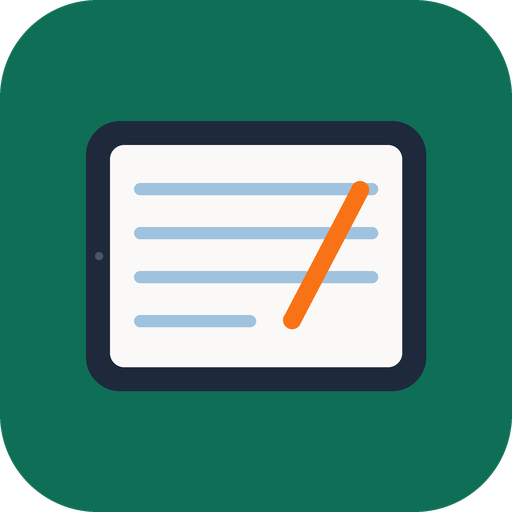
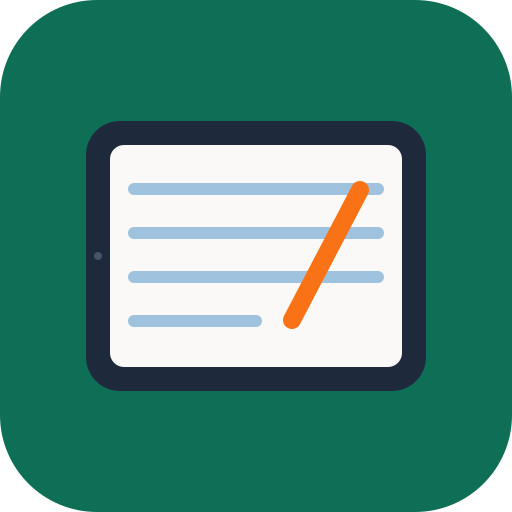
Replier la fenêtre d'options, lissage du trait, barre P1-P2 lisible, script d'icônes à jour
- fenêtre d'options repliable (rouverte au changement d'outil)
- lissage du trait à main levée : aucun / léger / fort, réglable (défaut aucun)
- P1-P2 : outil actif plein bleu avec pictogramme, autres gris
- scripts/icones.mjs produit l'icône tablette (npm run icones n'écrase plus l'ancienne)

diff --git a/src/ui/BarreOutils.tsx b/src/ui/BarreOutils.tsx
@@ -5,6 +5,8 @@ import { FORMES } from '../model/formes';
 import { TAILLES_TEXTE_PT } from '../model/texte';
 import { PaletteCouleurs } from './PaletteCouleurs';
 import { outilsPour, type OutilId } from '../model/outils';
+import { OUTIL_ACTIF, OUTIL_GRIS } from './ColonneOutils';
+import { IconeOutil, IconeUi } from './iconesOutils';
 
 export const COULEURS = [
   { hex: '#1a1814', nom: 'Noir' },
@@ -69,13 +71,16 @@ export type PropsOutils = {
 
 export function BarreOutils(p: PropsOutils) {
   const grand = p.niveau === 'p1p2';
+  // Même langage que la colonne d'outils : l'outil ou le choix actif est plein bleu, tous les autres sont gris.
+  // (Avant : tous verts, l'actif seulement cerclé de vert, donc presque invisible.)
   const bouton = (actif: boolean) =>
-    `plai-btn ${grand ? 'min-h-[64px] min-w-[64px] text-lg' : 'min-h-[44px] min-w-[44px]'} ${actif ? 'ring-4 ring-[#0f6e56]' : ''}`;
+    `${actif ? OUTIL_ACTIF : OUTIL_GRIS} justify-center ${grand ? '!min-h-[64px] !min-w-[64px]' : '!min-h-[44px] !min-w-[44px]'}`;
 
   return (
     <div className="carte-flottante sticky top-[64px] z-50 mx-3 mt-3 flex flex-wrap items-center gap-2 p-2" role="toolbar" aria-label="Outils">
       {outilsPour(p.niveau).map(o => (
-        <button key={o.id} type="button" className={bouton(p.outil === o.id)} title={o.aide} aria-pressed={p.outil === o.id} onClick={() => p.setOutil(o.id)}>
+        <button key={o.id} type="button" className={`${bouton(p.outil === o.id)} ${grand ? 'flex-col gap-1 !py-2' : 'gap-2'}`} title={o.aide} aria-pressed={p.outil === o.id} onClick={() => p.setOutil(o.id)}>
+          <IconeOutil id={o.id} taille={grand ? 30 : 22} />
           {o.libelle}
         </button>
       ))}
@@ -131,8 +136,8 @@ export function BarreOutils(p: PropsOutils) {
         </>
       )}
       <span className="mx-2 h-8 w-px bg-[var(--border)]" aria-hidden />
-      <button type="button" className={bouton(false)} disabled={!p.peutAnnuler} onClick={p.onAnnuler}>Annuler</button>
-      <button type="button" className={bouton(false)} disabled={!p.peutRetablir} onClick={p.onRetablir}>Rétablir</button>
+      <button type="button" className={`${bouton(false)} gap-2`} disabled={!p.peutAnnuler} onClick={p.onAnnuler}><IconeUi nom="annuler" taille={22} />Annuler</button>
+      <button type="button" className={`${bouton(false)} gap-2`} disabled={!p.peutRetablir} onClick={p.onRetablir}><IconeUi nom="retablir" taille={22} />Rétablir</button>
       <span className="mx-2 h-8 w-px bg-[var(--border)]" aria-hidden />
       <button type="button" className={bouton(false)} aria-label="Dézoomer" onClick={() => p.setZoom(Math.max(0.5, +(p.zoom - 0.25).toFixed(2)))}>−</button>
       <span className="min-w-[3.5rem] text-center" aria-live="polite">{Math.round(p.zoom * 100)} %</span>

diff --git a/src/ui/Reglages.tsx b/src/ui/Reglages.tsx
@@ -1,5 +1,6 @@
 import { useState } from 'react';
 import type { PositionColonne, Reglages as R } from '../lib/reglages';
+import { LISSAGES, type Lissage } from '../model/lissage';
 import type { ModeEntree, Niveau } from '../model/types';
 
 const NIVEAUX: { id: Niveau; libelle: string; aide: string }[] = [
@@ -18,12 +19,19 @@ const COLONNES: { id: PositionColonne; libelle: string; aide: string }[] = [
   { id: 'droite', libelle: 'À droite', aide: 'Pour écrire de la main gauche : la main qui écrit ne cache pas les outils.' },
 ];
 
+const LISSAGES_TEXTES: Record<Lissage, { libelle: string; aide: string }> = {
+  aucun: { libelle: 'Aucun', aide: 'Le trait suit exactement la main, tremblements compris.' },
+  leger: { libelle: 'Léger', aide: 'Adoucit les petits tremblements. Les lettres gardent leur forme.' },
+  fort: { libelle: 'Fort', aide: 'Adoucit beaucoup : les traits deviennent plus réguliers, mais les petits détails des lettres s’arrondissent.' },
+};
+
 type Props = { initial: R | null; onValider: (r: R) => void };
 
 export function Reglages({ initial, onValider }: Props) {
   const [niveau, setNiveau] = useState<Niveau>(initial?.niveau ?? 'p3p6');
   const [mode, setMode] = useState<ModeEntree>(initial?.modeEntree ?? 'stylet');
   const [colonne, setColonne] = useState<PositionColonne>(initial?.colonne ?? 'gauche');
+  const [lissage, setLissage] = useState<Lissage>(initial?.lissage ?? 'aucun');
 
   return (
     <section className="plai-section mx-auto max-w-2xl p-4">
@@ -60,7 +68,17 @@ export function Reglages({ initial, onValider }: Props) {
           ))}
         </fieldset>
       )}
-      <button type="button" className="plai-btn min-h-[44px]" onClick={() => onValider({ niveau, modeEntree: mode, colonne })}>Valider</button>
+      <fieldset className="plai-card mb-4 p-4">
+        <legend className="font-semibold">Lissage du trait à main levée</legend>
+        <p className="mb-2 text-[var(--text2)]">Adoucit les tremblements du stylo et du surligneur libre. Le début et la fin du trait restent là où ils ont été posés. Les formes, les droites et les opérations ne sont pas concernées.</p>
+        {LISSAGES.map(l => (
+          <label key={l} className="mb-2 flex items-start gap-3">
+            <input type="radio" name="lissage" className="mt-2 h-5 w-5" checked={lissage === l} onChange={() => setLissage(l)} />
+            <span><strong>{LISSAGES_TEXTES[l].libelle}</strong><span className="block text-[var(--text2)]">{LISSAGES_TEXTES[l].aide}</span></span>
+          </label>
+        ))}
+      </fieldset>
+      <button type="button" className="plai-btn min-h-[44px]" onClick={() => onValider({ niveau, modeEntree: mode, colonne, lissage })}>Valider</button>
     </section>
   );
 }

diff --git a/src/ui/PageVue.tsx b/src/ui/PageVue.tsx
@@ -7,6 +7,7 @@ import { ptVersMm, ratioPixelsMax } from '../lib/units';
 import { motifFond, type Motif } from '../model/fonds';
 import { creerDroite } from '../model/droites';
 import { formeContient, formeDepuisGlisse } from '../model/formes';
+import { lisserTrait } from '../model/lissage';
 import { effacerPartiel, objetTouche } from '../model/gomme';
 import { ajouterObjet, deplacerObjets, membresDuGroupe, modifierObjet, remplacerObjet, supprimerObjet } from '../model/ops';
 import { boiteDe, objetSous } from '../model/selection';
@@ -45,6 +46,8 @@ type Props = {
   photoUrl?: string;
   /** Surligneur : « libre » suit le doigt, « lineaire » trace une droite du début à la fin du glissé. */
   modeSurligneur: 'libre' | 'lineaire';
+  /** Rayon du lissage du trait à main levée (0 = aucun), voir model/lissage.ts. */
+  lissage: number;
   /** Taille (points) des nouveaux textes. */
   taillePtTexte: number;
   /** Objet sélectionné sur cette page (outils Sélectionner et Formes) : cadre, ou poignées pour une forme. */
@@ -380,7 +383,7 @@ export function PageVue(p: Props) {
     setBrouillon(null);
     if (trait && trait.length > 0) {
       p.onCommit(ajouterObjet(p.doc, p.pageIndex, {
-        id: nouvelId(), type: 'trait', points: trait, couleur: p.couleur, epaisseur: p.epaisseur,
+        id: nouvelId(), type: 'trait', points: lisserTrait(trait, p.lissage), couleur: p.couleur, epaisseur: p.epaisseur,
         ...(p.outil === 'surligneur' ? { surligneur: true } : {}),
       }));
     } else if (gomme && gomme !== p.doc) {
@@ -617,7 +620,7 @@ export function PageVue(p: Props) {
             idEdition={maths?.objet.id ?? null} formesEditables={surFormes} largeurPage={page.largeurMm} hauteurPage={page.hauteurMm} onDeplace={finDeplacement} onTransforme={finTransformation} />
           <Layer listening={false}>
             {enCours && (
-              <Line points={enCours.flatMap(q => [q.x, q.y])} stroke={p.couleur} strokeWidth={p.epaisseur}
+              <Line points={lisserTrait(enCours, p.lissage).flatMap(q => [q.x, q.y])} stroke={p.couleur} strokeWidth={p.epaisseur}
                 lineCap={p.outil === 'surligneur' ? 'butt' : 'round'} lineJoin="round" opacity={p.outil === 'surligneur' ? SURLIGNEUR_OPACITE : 1} />
             )}
             {apercuForme && <FormeVue o={apercuForme} draggable={false} listening={false} />}

diff --git a/src/ui/BandeauReglages.tsx b/src/ui/BandeauReglages.tsx
@@ -1,3 +1,4 @@
+import { useEffect, useState } from 'react';
 import { COULEURS_SURLIGNEUR, SURLIGNEUR_EPAISSEUR_MAX_MM, SURLIGNEUR_EPAISSEUR_MIN_MM, SURLIGNEUR_EPAISSEUR_PAS_MM, SURLIGNEUR_OPACITE } from '../lib/couleurs';
 import { FORMES } from '../model/formes';
 import { OUTILS } from '../model/outils';
@@ -60,9 +61,20 @@ export function aOptions(p: PropsOutils): boolean {
  * Elle flotte au-dessus de la page sans rien déplacer. Ne pas la mettre dans le bandeau : ce serait de la hauteur réservée en plus.
  */
 export function BarreBas(p: PropsOutils) {
+  // Repliée à la main pour dégager la page ; rouverte d'office quand on change d'outil (ses options sont alors nouvelles).
+  const [repliee, setRepliee] = useState(false);
+  useEffect(() => setRepliee(false), [p.outil]);
   return (
     <div className="pointer-events-none sticky bottom-3 z-40 mx-3 mb-3 flex items-end justify-between gap-3">
-      <div className="min-w-0 flex-1">{aOptions(p) && <FenetreOptions {...p} />}</div>
+      <div className="min-w-0 flex-1">
+        {aOptions(p) && (repliee
+          ? (
+            <button type="button" className={`${OUTIL_GRIS} pointer-events-auto gap-2 shadow-lg`} aria-expanded={false} onClick={() => setRepliee(false)}>
+              <IconeUi nom="haut" />Options de l’outil
+            </button>
+          )
+          : <FenetreOptions {...p} onReplier={() => setRepliee(true)} />)}
+      </div>
       <Zoom zoom={p.zoom} setZoom={p.setZoom} />
     </div>
   );
@@ -80,7 +92,7 @@ function Zoom({ zoom, setZoom }: { zoom: number; setZoom: (z: number) => void })
   );
 }
 
-function FenetreOptions(p: PropsOutils) {
+function FenetreOptions(p: PropsOutils & { onReplier: () => void }) {
   return (
     <div className="carte-flottante pointer-events-auto flex flex-wrap items-center gap-x-6 gap-y-2 p-3 shadow-2xl ring-1 ring-[var(--border2)]" role="group" aria-label="Options de l’outil">
       {p.outil === 'droite' && (
@@ -153,6 +165,9 @@ function FenetreOptions(p: PropsOutils) {
           </div>
         </div>
       )}
+      <button type="button" className={`${OUTIL_GRIS} ml-auto gap-2 ${PUCE}`} aria-expanded onClick={p.onReplier} title="Replier cette fenêtre pour voir toute la page">
+        <IconeUi nom="bas" />Replier
+      </button>
     </div>
   );
 }

diff --git a/src/model/lissage.test.ts b/src/model/lissage.test.ts
@@ -1,0 +1,40 @@
+import { describe, expect, it } from 'vitest';
+import { lisserTrait, RAYON_LISSAGE } from './lissage';
+
+// Ligne droite (y = 0) avec un bruit déterministe, comme une main qui tremble.
+const ligneTremblee = Array.from({ length: 41 }, (_, i) => ({ x: i, y: (((i * 37) % 11) - 5) / 5 }));
+
+describe('lisserTrait', () => {
+  it('ne change rien sans lissage ni pour 2 points ou moins', () => {
+    expect(lisserTrait(ligneTremblee, 0)).toBe(ligneTremblee);
+    const deux = [{ x: 0, y: 0 }, { x: 5, y: 5 }];
+    expect(lisserTrait(deux, 8)).toBe(deux);
+  });
+  it('garde exactement le premier et le dernier point', () => {
+    const r = lisserTrait(ligneTremblee, RAYON_LISSAGE.fort);
+    expect(r[0]).toEqual(ligneTremblee[0]);
+    expect(r[40]).toEqual(ligneTremblee[40]);
+    expect(r).toHaveLength(41);
+  });
+  it('réduit le tremblement', () => {
+    // Écart quadratique à la droite idéale, sur le milieu du trait (loin des bouts fixes).
+    const ecart = (pts: { y: number }[]) => Math.sqrt(pts.slice(10, 30).reduce((a, q) => a + q.y * q.y, 0) / 20);
+    const leger = lisserTrait(ligneTremblee, RAYON_LISSAGE.leger);
+    const fort = lisserTrait(ligneTremblee, RAYON_LISSAGE.fort);
+    expect(ecart(leger)).toBeLessThan(ecart(ligneTremblee));
+    expect(ecart(fort)).toBeLessThan(ecart(leger));
+  });
+  it('laisse une droite parfaite inchangée', () => {
+    const droite = Array.from({ length: 20 }, (_, i) => ({ x: i, y: 2 * i }));
+    for (const q of lisserTrait(droite, 5).map((q, i) => [q, droite[i]] as const)) {
+      expect(q[0].x).toBeCloseTo(q[1].x, 9);
+      expect(q[0].y).toBeCloseTo(q[1].y, 9);
+    }
+  });
+  it('moyenne la pression seulement si tous les points en ont une', () => {
+    const avec = Array.from({ length: 9 }, (_, i) => ({ x: i, y: 0, p: i / 8 }));
+    expect(lisserTrait(avec, 2)[4].p).toBeCloseTo(0.5, 9);
+    const sans = avec.map((q, i) => (i === 4 ? { x: q.x, y: q.y } : q));
+    expect(lisserTrait(sans, 2)[3].p).toBeUndefined();
+  });
+});

diff --git a/src/lib/reglages.test.ts b/src/lib/reglages.test.ts
@@ -19,8 +19,8 @@ describe('reglages', () => {
   });
   it('aller-retour', () => {
     const s = memoire();
-    ecrireReglages({ niveau: 'secondaire', modeEntree: 'stylet', colonne: 'droite' }, s);
-    expect(lireReglages(s)).toEqual({ niveau: 'secondaire', modeEntree: 'stylet', colonne: 'droite' });
+    ecrireReglages({ niveau: 'secondaire', modeEntree: 'stylet', colonne: 'droite', lissage: 'fort' }, s);
+    expect(lireReglages(s)).toEqual({ niveau: 'secondaire', modeEntree: 'stylet', colonne: 'droite', lissage: 'fort' });
   });
   it('valeur corrompue → null', () => {
     const s = memoire();
@@ -31,12 +31,12 @@ describe('reglages', () => {
   });
   it('stockage indisponible → null sans exception', () => {
     expect(lireReglages(null)).toBeNull();
-    expect(() => ecrireReglages({ niveau: 'p1p2', modeEntree: 'souris', colonne: 'gauche' }, null)).not.toThrow();
+    expect(() => ecrireReglages({ niveau: 'p1p2', modeEntree: 'souris', colonne: 'gauche', lissage: 'aucun' }, null)).not.toThrow();
   });
   it('réglages d’avant la colonne : colonne à gauche par défaut', () => {
     const s = memoire();
     s.setItem('cahieractif.reglages', '{"niveau":"p3p6","modeEntree":"souris"}');
-    expect(lireReglages(s)).toEqual({ niveau: 'p3p6', modeEntree: 'souris', colonne: 'gauche' });
+    expect(lireReglages(s)).toEqual({ niveau: 'p3p6', modeEntree: 'souris', colonne: 'gauche', lissage: 'aucun' });
     s.setItem('cahieractif.reglages', '{"niveau":"p3p6","modeEntree":"souris","colonne":"haut"}');
     expect(lireReglages(s)?.colonne).toBe('gauche');
   });

diff --git a/src/model/lissage.ts b/src/model/lissage.ts
@@ -1,0 +1,29 @@
+import type { Point } from './types';
+
+/** Force du lissage du trait à main levée : rayon (en nombre de points) de la moyenne glissante. */
+export type Lissage = 'aucun' | 'leger' | 'fort';
+export const RAYON_LISSAGE: Record<Lissage, number> = { aucun: 0, leger: 3, fort: 8 };
+export const LISSAGES: Lissage[] = ['aucun', 'leger', 'fort'];
+
+/**
+ * Adoucit un trait tremblé : chaque point devient la moyenne pondérée (triangle) de ses voisins dans le rayon donné.
+ * Le premier et le dernier point restent exactement là où le stylet a touché et quitté la page ; la fenêtre rétrécit près des bouts
+ * pour que le début et la fin du trait ne dérivent pas. La pression (p) est moyennée de la même façon quand elle existe.
+ * Un trait de 2 points ou moins est rendu tel quel.
+ */
+export function lisserTrait(points: Point[], rayon: number): Point[] {
+  const n = points.length;
+  if (rayon <= 0 || n <= 2) return points;
+  return points.map((pt, i) => {
+    if (i === 0 || i === n - 1) return pt;
+    const r = Math.min(rayon, i, n - 1 - i);
+    let somme = 0, x = 0, y = 0, p = 0, avecP = true;
+    for (let k = -r; k <= r; k++) {
+      const w = r + 1 - Math.abs(k);
+      const q = points[i + k];
+      somme += w; x += w * q.x; y += w * q.y;
+      if (q.p === undefined) avecP = false; else p += w * q.p;
+    }
+    return avecP ? { x: x / somme, y: y / somme, p: p / somme } : { x: x / somme, y: y / somme };
+  });
+}

diff --git a/src/lib/reglages.ts b/src/lib/reglages.ts
@@ -1,8 +1,9 @@
+import { LISSAGES, type Lissage } from '../model/lissage';
 import type { ModeEntree, Niveau } from '../model/types';
 
 /** Côté de la colonne d'outils (P3 et plus) : à droite pour écrire de la main gauche. */
 export type PositionColonne = 'gauche' | 'droite';
-export type Reglages = { niveau: Niveau; modeEntree: ModeEntree; colonne: PositionColonne };
+export type Reglages = { niveau: Niveau; modeEntree: ModeEntree; colonne: PositionColonne; lissage: Lissage };
 
 const CLE = 'cahieractif.reglages';
 const NIVEAUX: Niveau[] = ['p1p2', 'p3p6', 'secondaire'];
@@ -23,7 +24,9 @@ export function lireReglages(s: Storage | null = stockageLocal()): Reglages | nu
     const r = JSON.parse(brut);
     if (!NIVEAUX.includes(r?.niveau) || !MODES.includes(r?.modeEntree)) return null;
     // Réglages enregistrés avant l'existence de la colonne : à gauche par défaut.
-    return { niveau: r.niveau, modeEntree: r.modeEntree, colonne: r.colonne === 'droite' ? 'droite' : 'gauche' };
+    return { niveau: r.niveau, modeEntree: r.modeEntree, colonne: r.colonne === 'droite' ? 'droite' : 'gauche',
+      // Réglages enregistrés avant le lissage : aucun lissage, comme avant.
+      lissage: LISSAGES.includes(r.lissage) ? r.lissage : 'aucun' };
   } catch {
     return null;
   }

diff --git a/src/ui/Editeur.tsx b/src/ui/Editeur.tsx
@@ -16,6 +16,7 @@ import { exporterPdf } from '../pdf/export';
 import { ouvrirPdf, type PDFDocumentProxy } from '../pdf/pdfjs';
 import type { StorageAdapter } from '../storage/adapter';
 import { BarreOutils, COULEURS, EPAISSEURS, type PropsOutils } from './BarreOutils';
+import { RAYON_LISSAGE } from '../model/lissage';
 import { BandeauReglages, BarreBas } from './BandeauReglages';
 import { LARGEUR_COLONNE_PX } from './ColonneOutils';
 import { ColonneRepliable, LARGEUR_BANDE_PX } from './ColonneRepliable';
@@ -314,6 +315,7 @@ export function Editeur({ initial, reglages, stockage, onFermer }: Props) {
             formeChoisie={formeChoisie}
             photoUrl={photoUrls[doc.pages[i].origine ?? i]}
             modeSurligneur={modeSurligneur}
+            lissage={RAYON_LISSAGE[reglages.lissage]}
             taillePtTexte={taillePtTexte}
             selectionId={outilSelection && selection?.page === i && selection.ids.length === 1 ? selection.ids[0] : null}
             selectionIds={outilSelection && selection?.page === i ? selection.ids : []}
